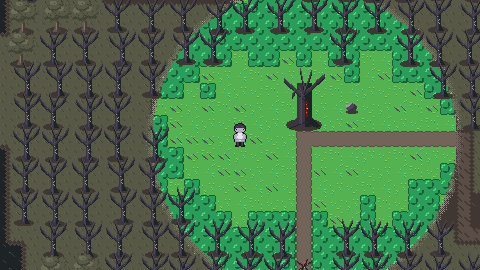
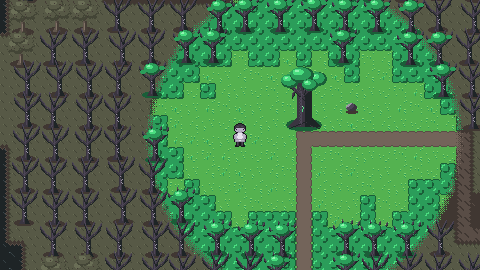
feat(mundo): el decorado vuelve pieza a pieza al paso de la ola

diff --git a/docs/ux/anexos/2026-10-28-encuentros.md b/docs/ux/anexos/2026-10-28-encuentros.md
@@ -610,7 +610,7 @@ enmienda 3 del contrato de exploración (tramado 4 × 4, 900 ms, exclusivo).
   se abre sobre la zona aún enferma y la ola sale de la casilla donde se le
   tocó.
 
-**Medido** — `tools/verify_wave.gd`: **6 de 6**.
+**Medido** — `tools/verify_wave.gd`: **6 de 6** (7 de 7 con el decorado pieza a pieza, abajo).
 
 - Dura **54 cuadros de física** (900 ms).
 - **Ningún píxel mezclado:** en cada cuadro, todo píxel del suelo es el
@@ -647,10 +647,12 @@ en `verify_flow` (23/23), `battle_bg_sheet` y `verify_wave`.
 
 **Pendiente, y se dice:**
 
-- **El decorado no cambia con el frente.** Sigue enfermo durante los 900 ms y
-  pasa a purificado de golpe al final. En la captura se ven árboles quemados
-  sobre suelo ya verde. Cambiarlo pieza a pieza al paso del frente es posible.
-  Se pregunta a Diego.
+- ~~El decorado no cambia con el frente.~~ **Resuelto el mismo día, a
+  petición de Diego («pieza a pieza»):** cada árbol, mata o roca pasa a
+  purificado (o desaparece, si es daño) en el cuadro en que el frente llega a
+  su pie. `verify_wave` lo mide: **0 desfases en 46 644 comprobaciones**,
+  7 de 7. La captura `2026-10-28-ola-bosque.png` lo muestra a media ola: copas
+  verdes dentro del frente y troncos quemados fuera.
 - **La fauna en bandada al purificar (IA-2)** no está: es de la parte 3
   según la guía y quedó sin hacer. Se anota como deuda.
 
